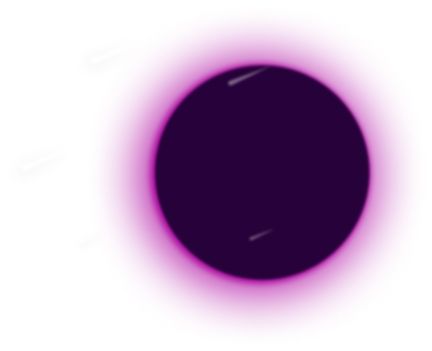
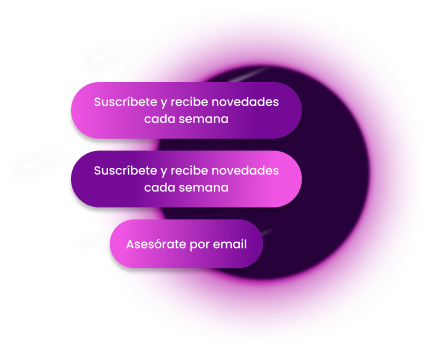
Generate Leads Section

Changed region(s): [[0.1505, 0.2279, 0.7222, 0.7977]]

diff --git a/src/App.js b/src/App.js
@@ -4,6 +4,7 @@ import SeeGallerySection from './components/SeeGallerySection'
 import IncreaseVisitsSection from './components/IncreaseVisitsSection'
 import PromoteProductsSection from './components/PromoteProductsSection'
 import ShareYoutubeSection from './components/ShareYoutubeSection'
+import GenerateLeadsSection from './components/GenerateLeadsSection'
 
 function App() {
 	return (
@@ -14,6 +15,7 @@ function App() {
 			<IncreaseVisitsSection /> {/* Section 3 */}
 			<PromoteProductsSection /> {/* Section 4 */}
 			<ShareYoutubeSection /> {/* Section 5 */}
+			<GenerateLeadsSection /> {/* Section 6 */}
 		</div>
 	)
 }

diff --git a/src/components/GenerateLeadsSection.js b/src/components/GenerateLeadsSection.js
@@ -1,0 +1,17 @@
+import Image6 from '../assets/Image6.png'
+
+const GenerateLeadsSection = () => {
+	return (
+		<div className="generate_leads_section">
+			<div className="left">
+				<img src={Image6} alt="image6" />
+			</div>
+			<div className="right">
+				<h2>Genera leads y eclípsales con tu contenido.</h2>
+				<p>Recolecta los emails y números de teléfono de tus seguidores o potenciales clientes e impáctalos con tus novedades.</p>
+			</div>
+		</div>
+	)
+}
+
+export default GenerateLeadsSection

diff --git a/src/styles/components/_GenerateLeadsSection.scss b/src/styles/components/_GenerateLeadsSection.scss
@@ -1,0 +1,30 @@
+.generate_leads_section {
+	display: flex;
+	align-items: center;
+	justify-content: center;
+	gap: 100px;
+	padding: 50px 0;
+
+	.right {
+		max-width: 440px;
+	}
+}
+
+@include tablet-screen {
+	.generate_leads_section {
+		flex-direction: column-reverse;
+		gap: 20px;
+		padding: 20px 20px;
+		text-align: center;
+
+		.left {
+			width: 100%;
+			height: 100%;
+
+			img {
+				width: 100%;
+				height: 100%;
+			}
+		}
+	}
+}

diff --git a/src/styles/components/_components.scss b/src/styles/components/_components.scss
@@ -4,3 +4,4 @@
 @import './IncreaseVisitsSection';
 @import './PromoteProductsSection';
 @import './ShareYoutubeSection';
+@import './GenerateLeadsSection';

diff --git a/src/styles/components/_ShareYoutubeSection.scss b/src/styles/components/_ShareYoutubeSection.scss
@@ -33,8 +33,5 @@
 		.left {
 			text-align: center;
 		}
-
-		.right {
-		}
 	}
 }
